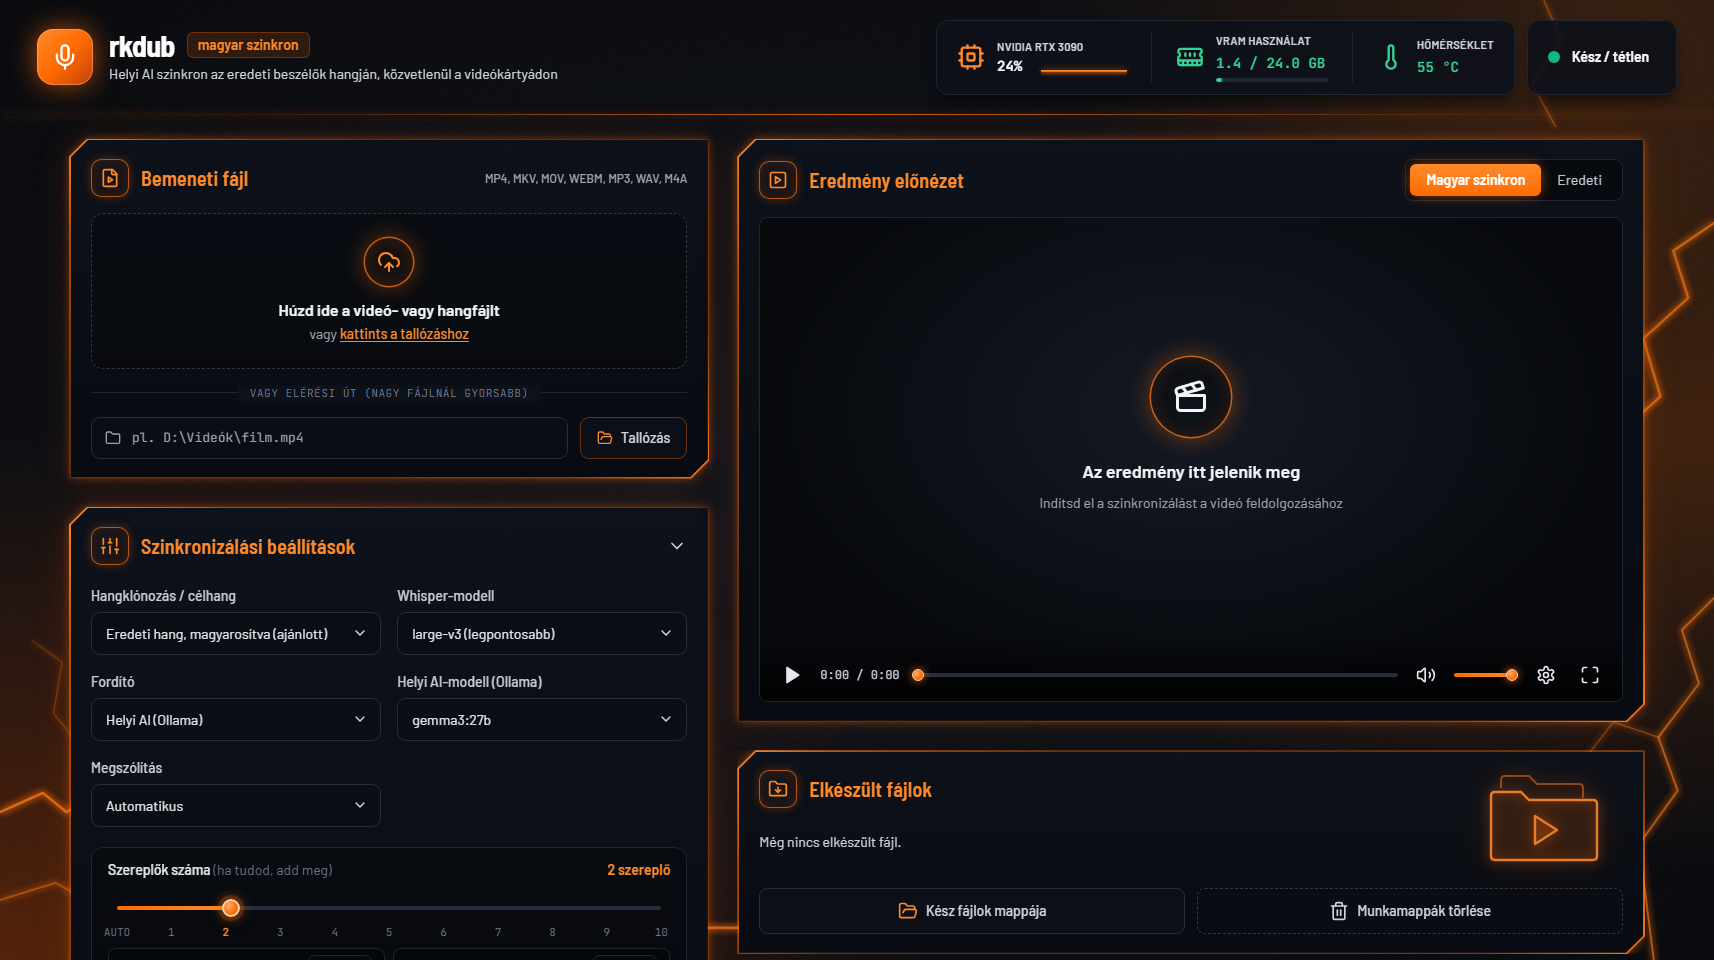
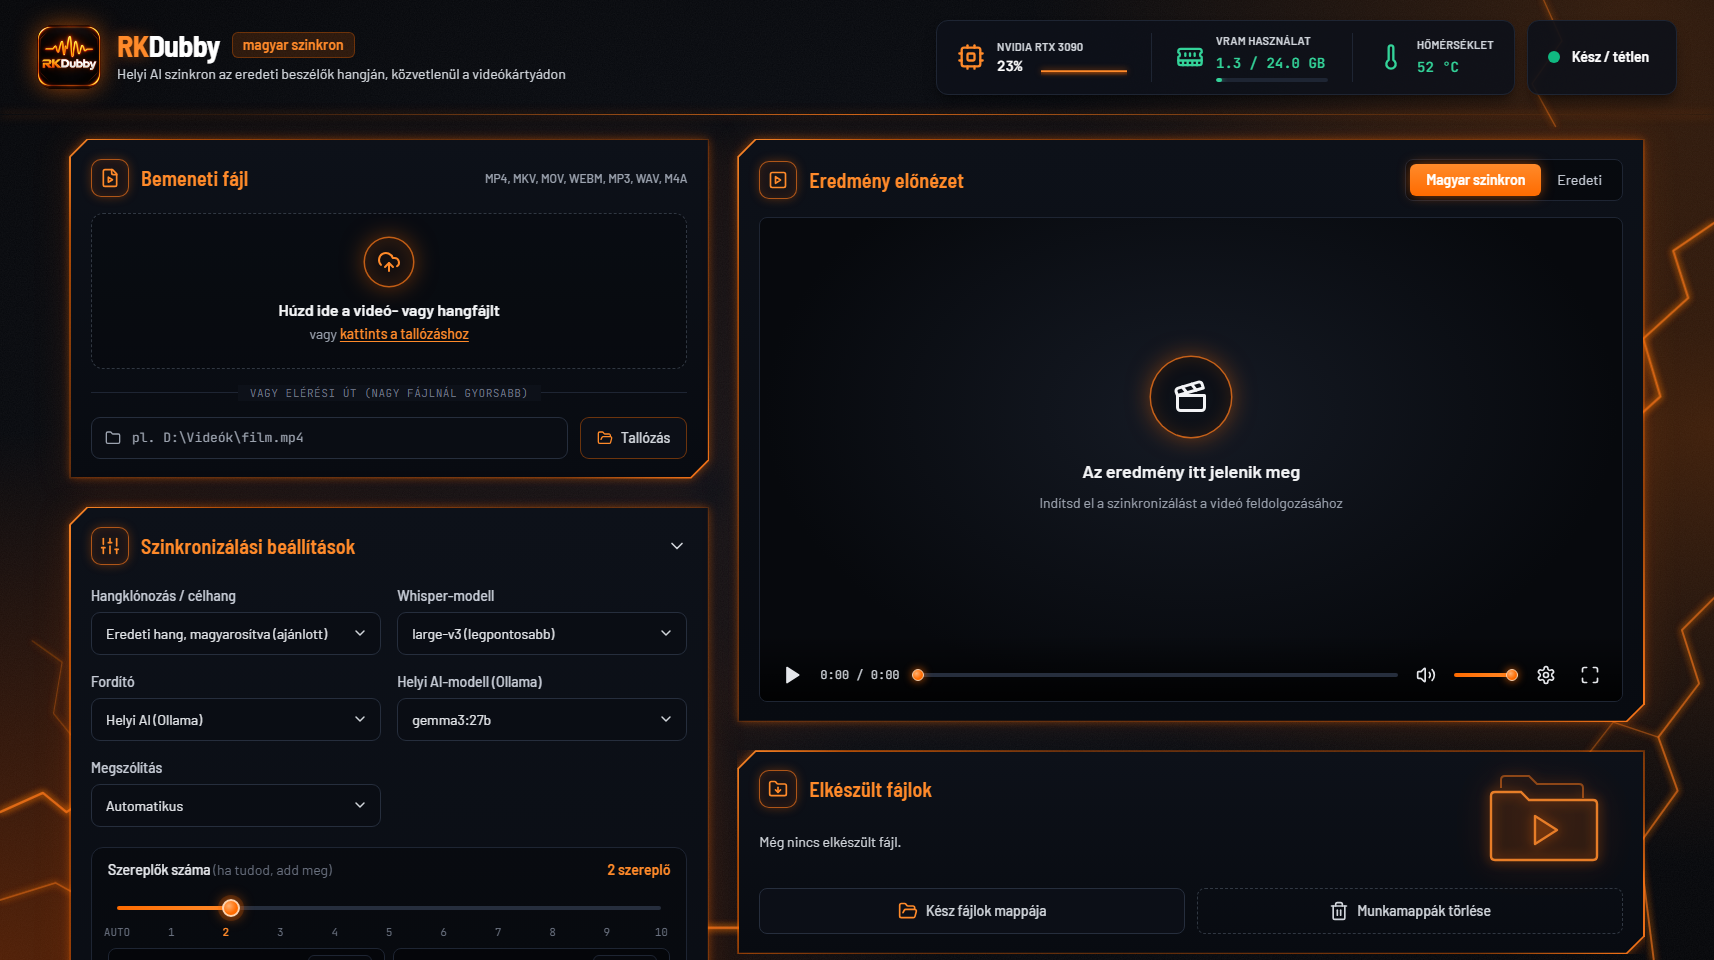
Fejléc: RKDubby név és logó
A felület fejlécében a mikrofon helyett az RKDubby logó, a név RKDubby
(az ablak címében és a láblécben is). A logó címe verziójelet kapott,
hogy az alkalmazásablak ne a régi ikont mutassa a gyorsítótárból.
Új képernyőkép a README-hez.

Changed region(s): [[0.0, 0.0312, 0.3401, 0.0938]]

diff --git a/dub/web/index.html b/dub/web/index.html
@@ -3,8 +3,8 @@
 <head>
     <meta charset="UTF-8">
     <meta name="viewport" content="width=device-width, initial-scale=1.0">
-    <title>rkdub — magyar szinkron</title>
-    <link rel="icon" href="/static/rkdub.png">
+    <title>RKDubby — magyar szinkron</title>
+    <link rel="icon" href="/static/rkdub.png?v=2">
     <!-- A Tailwind és a Lucide helyben van (internet nélkül is működik); a betűtípus netről jön, ha van -->
     <script src="/static/tailwind.js"></script>
     <script src="/static/lucide.min.js"></script>
@@ -147,13 +147,13 @@
     <header class="relative z-10 px-4 md:px-8 pt-5 pb-5">
         <div class="max-w-[1640px] mx-auto flex flex-wrap items-center justify-between gap-4">
             <div class="flex items-center gap-4 min-w-0">
-                <div class="w-14 h-14 rounded-2xl bg-gradient-to-br from-brand-400 via-brand-500 to-orange-700 flex items-center justify-center text-white shrink-0"
-                     style="box-shadow: 0 0 0 1px rgba(255,190,140,.45) inset, 0 0 28px -2px rgba(255,107,0,.75)">
-                    <i data-lucide="mic" class="w-7 h-7"></i>
+                <div class="w-16 h-16 rounded-2xl overflow-hidden shrink-0 bg-black"
+                     style="box-shadow: 0 0 26px -4px rgba(255,107,0,.8)">
+                    <img src="/static/rkdub.png?v=2" alt="RKDubby" class="w-full h-full object-cover scale-[1.06]">
                 </div>
                 <div class="min-w-0">
                     <div class="flex items-center gap-3">
-                        <h1 class="font-head font-bold text-3xl text-white tracking-tight leading-none">rkdub</h1>
+                        <h1 class="font-head font-bold text-3xl tracking-tight leading-none"><span class="text-brand-400" style="text-shadow: 0 0 14px rgba(255,107,0,.55)">RK</span><span class="text-white">Dubby</span></h1>
                         <span class="text-sm px-2.5 py-0.5 rounded-md bg-brand-500/15 text-brand-400 font-semibold border border-brand-500/30">magyar szinkron</span>
                     </div>
                     <p class="text-sm text-gray-300 mt-1">Helyi AI szinkron az eredeti beszélők hangján, közvetlenül a videókártyádon</p>
@@ -513,7 +513,7 @@
     <footer class="relative z-10 px-4 md:px-8 py-4 text-xs text-gray-500 mt-auto">
         <div class="max-w-[1640px] mx-auto flex flex-wrap items-center justify-between gap-2">
             <p><span class="text-brand-500">◆</span> AI + helyi erő. A te szinkronod.</p>
-            <p>rkdub <span id="version"></span> · Whisper · OmniVoice · BS-Roformer · Ollama · FFmpeg</p>
+            <p>RKDubby <span id="version"></span> · Whisper · OmniVoice · BS-Roformer · Ollama · FFmpeg</p>
         </div>
     </footer>
 
